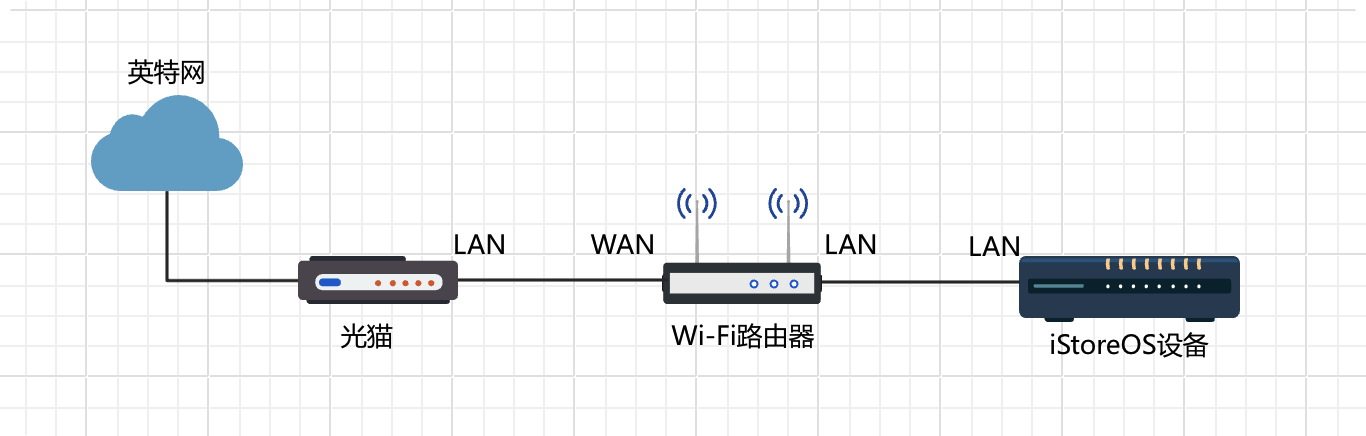
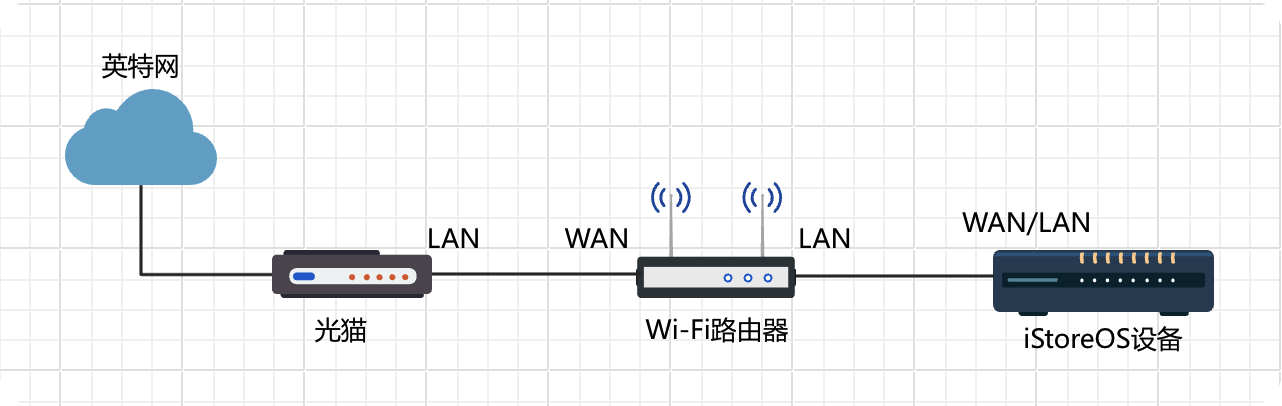
update istoreos

Changed region(s): [[0.0, 0.0591, 1.0, 0.9458], [0.0, 0.0, 0.9984, 0.0296]]

diff --git a/docs/zh/guide/istoreos/network/wired_connection.md b/docs/zh/guide/istoreos/network/wired_connection.md
@@ -4,7 +4,7 @@
 
 ### 1. 设备网口数量为1个
 
-如果您的iStoreOS设备只有一个网口，那么它无法同时连接外部网络和内部设备，因此只能选择以下两种模式：
+如果您的iStoreOS设备只有一个网口，无法同时连接外部网络和内部设备，因此只能选择以下两种模式：
 
 - 旁路由模式：辅助主路由，提供附加功能（如上网管理、流量管理等）。
 - 纯主机模式：作为一个普通的网络客户端，接入现有网络使用。
@@ -60,7 +60,7 @@
 
 将LAN口连接到现有网络的交换机或主路由器的LAN口。
 
-![image](./network3.png)
+![image](./network6.png)
 
 接线后请查看如何[访问设备](/zh/guide/istoreos/network/check_connection.html)
 
@@ -71,7 +71,7 @@
 将WAN口连接到现有网络的交换机或主路由器的LAN口。
 其他网口可连接内部设备，但通常不使用。
 
-![image](./network3.png)
+![image](./network5.png)
 
 接线后请查看如何[访问设备](/zh/guide/istoreos/network/check_connection.html)
 

diff --git a/docs/zh/guide/istoreos/network/check_connection.md b/docs/zh/guide/istoreos/network/check_connection.md
@@ -1,17 +1,17 @@
-按照以上模式接线后，通过手机扫描或上级路由快速获取设备IP访问管理后台。
+按照[设备联网](/zh/guide/istoreos/network/wired_connection.html)接线后，通过手机扫描或上级路由快速获取设备IP访问管理后台。
 
-默认用户名：root
-密码：password
+默认用户名：**root**
+密码：**password**
 
 ## 主路由
 
 - 有线连接访问
 
-电脑用网线连接LAN口，浏览器上直接访问 192.168.100.1 即可访问管理后台。
+电脑用网线连接LAN口，浏览器上直接访问IP地址 **192.168.100.1** 即可访问管理后台。
 
 - 无线连接访问
 
-手机或电脑连接Wi-Fi后，局域网内浏览器上直接访问 192.168.100.1 即可访问管理后台。
+手机或电脑连接Wi-Fi后，局域网内浏览器上直接访问IP地址 **192.168.100.1** 即可访问管理后台。
 
 ## 旁路由
 

diff --git a/docs/zh/guide/istoreos/network/wifi_connection.md b/docs/zh/guide/istoreos/network/wifi_connection.md
@@ -1,1 +1,1 @@
-无线连接
+如果你的设备是带无线功能的，例如：GL-MT3000、接入USB无线网卡等，你可以按照[设备联网](/zh/guide/istoreos/network/wired_connection.html)接线后，通过手机连接到设备Wi-Fi后浏览器访问IP地址 **192.168.100.1** 访问管理后台。
